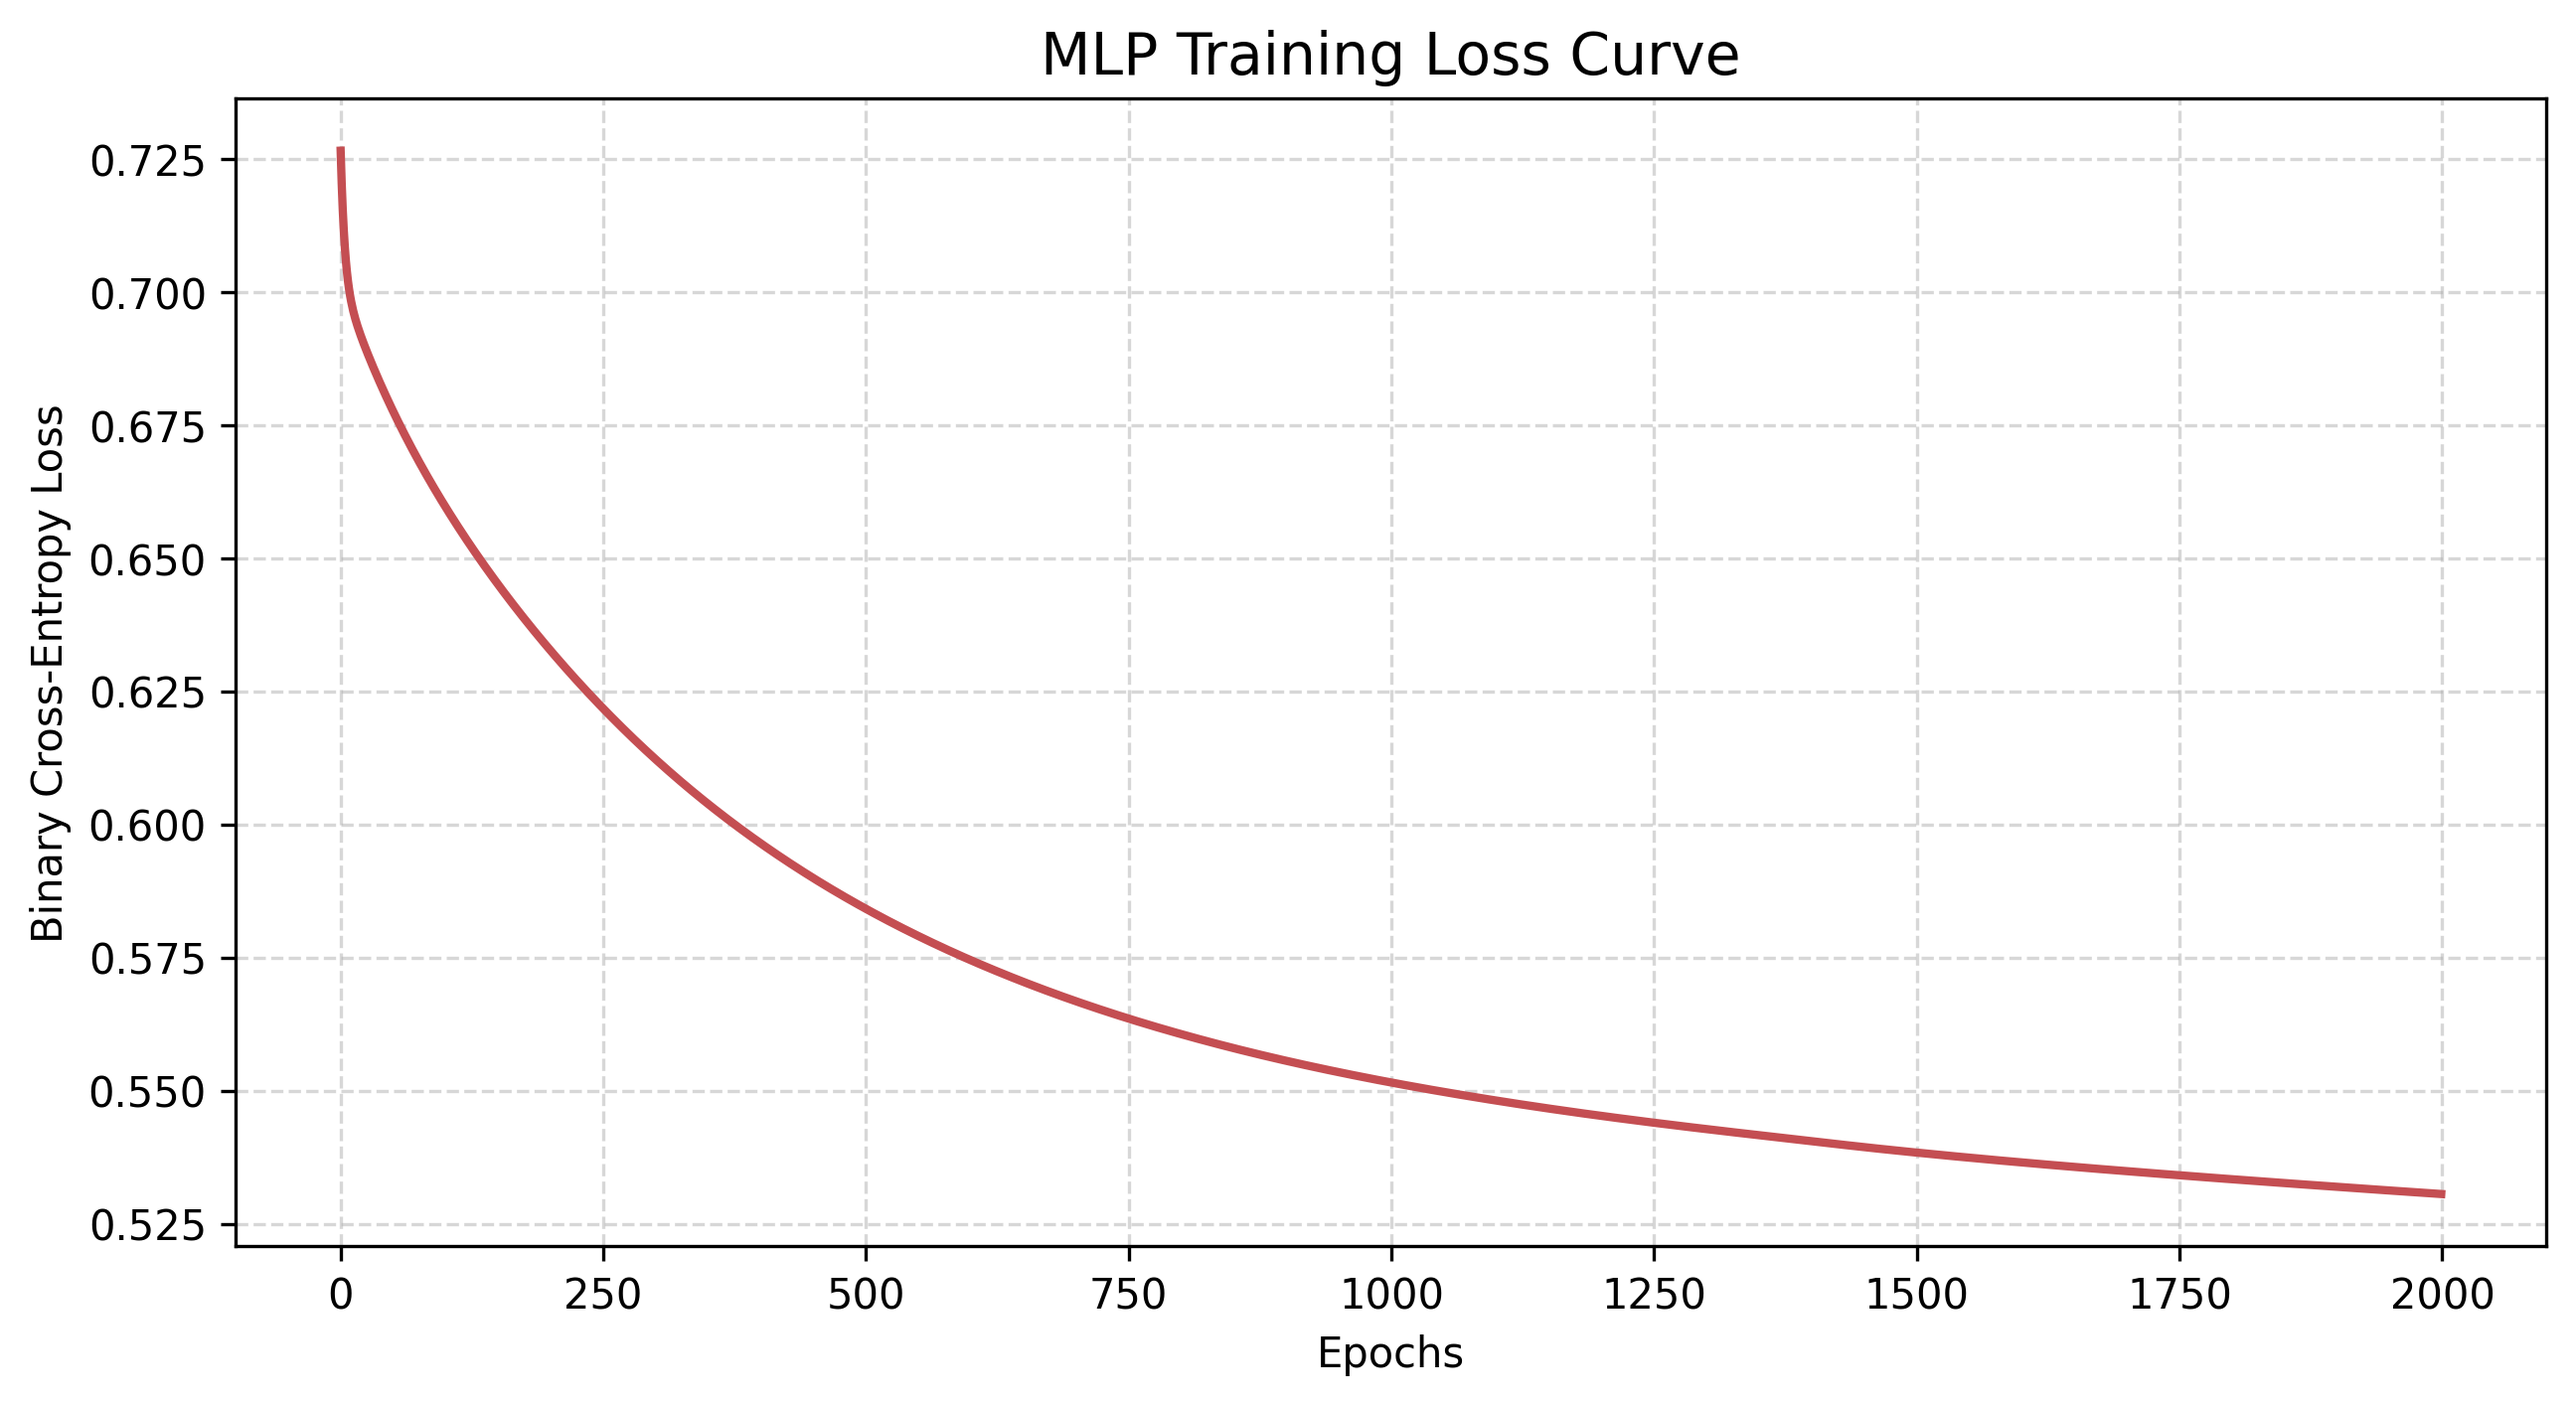
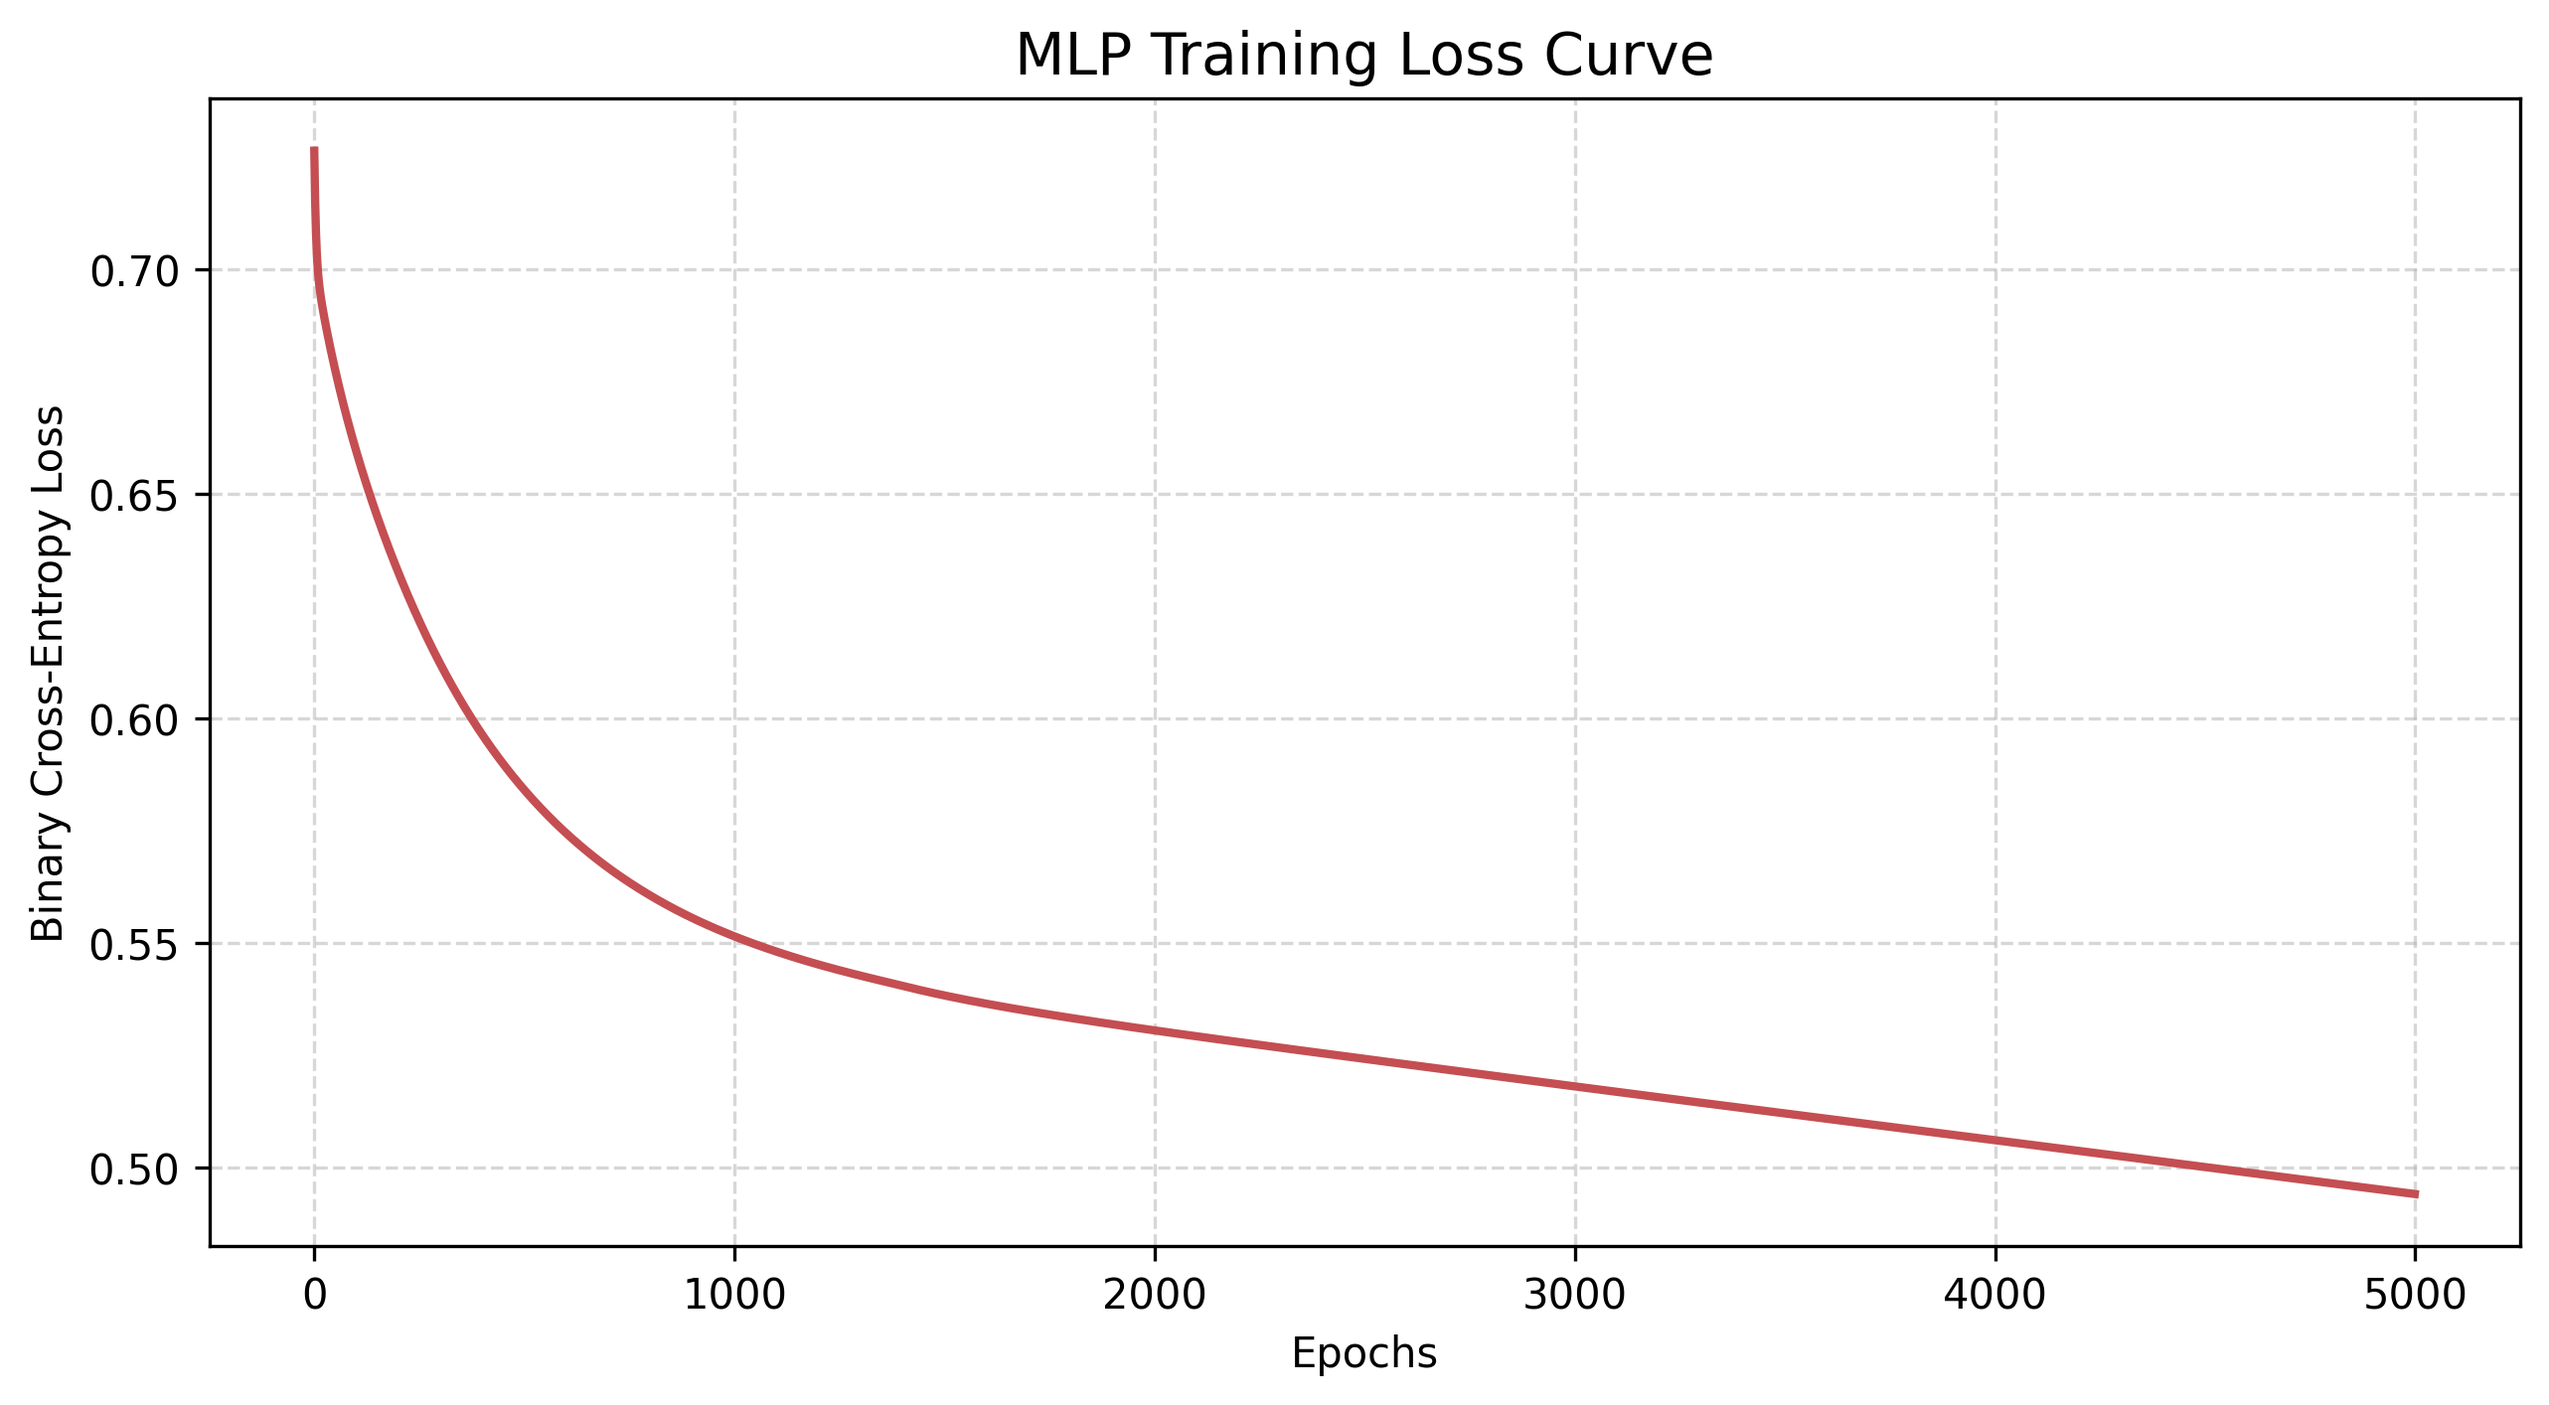
Second submit. Add the training result(models best and the last epoch). The loss curve is still not convergent.

diff --git a/Model.py b/Model.py
@@ -2,6 +2,9 @@
 # 3. 构建模型 (Model Construction - MLP)
 # ==========================================
 import numpy as np
+import pickle # 用于保存模型参数 (Python标准库，符合规定)
+import copy   # 用于复制最佳模型参数
+import os
 
 
 class SimpleMLP:
@@ -15,6 +18,10 @@ class SimpleMLP:
 
         self.W2 = np.random.randn(hidden_size, output_size) * np.sqrt(2. / hidden_size)
         self.b2 = np.zeros((1, output_size))
+
+        # 用于记录最佳参数
+        self.best_weights = None
+        self.best_f1 = -1  # 初始化最佳 F1 分数
 
     def sigmoid(self, z):
         return 1 / (1 + np.exp(-np.clip(z, -250, 250)))  # clip防止溢出
@@ -51,23 +58,108 @@ class SimpleMLP:
         self.W2 -= self.lr * dW2
         self.b2 -= self.lr * db2
 
-    def train(self, X, y, epochs=1000):
-        loss_history = []
+    # 计算精确率的辅助函数
+    def calculate_precision(self, X, y):
+        preds = (self.forward(X) > 0.5).astype(int)
+        y = y.reshape(-1, 1)
+        tp = np.sum((y == 1) & (preds == 1))
+        fp = np.sum((y == 0) & (preds == 1))
+        return tp / (tp + fp + 1e-8)  # 防止除以0
+
+    def calculate_f1(self, X, y):
+        # 简单计算 F1 用于选取最佳模型
+        preds = (self.forward(X) > 0.5).astype(int)
+        tp = np.sum((y == 1) & (preds == 1))
+        fp = np.sum((y == 0) & (preds == 1))
+        fn = np.sum((y == 1) & (preds == 0))
+        prec = tp / (tp + fp + 1e-8)
+        rec = tp / (tp + fn + 1e-8)
+        return 2 * (prec * rec) / (prec + rec + 1e-8)
+
+    def save_model(self, filename):
+        """保存当前权重到文件"""
+        model_params = {
+            'W1': self.W1, 'b1': self.b1,
+            'W2': self.W2, 'b2': self.b2
+        }
+        with open(filename, 'wb') as f:
+            pickle.dump(model_params, f)
+        print(f" -> 模型已保存: {filename}")
+
+    def load_model(self, filename):
+        """加载权重"""
+        with open(filename, 'rb') as f:
+            params = pickle.load(f)
+        self.W1 = params['W1'];
+        self.b1 = params['b1']
+        self.W2 = params['W2'];
+        self.b2 = params['b2']
+
+    def train(self, X_train, y_train, X_val, y_val, epochs=1000):
+        # 历史记录容器
+        history = {
+            'loss': [],
+            'train_precision': [],
+            'val_precision': []
+        }
+
+        print(f"开始训练 ({epochs} Epochs)...")
+
         for epoch in range(epochs):
-            # 1. Forward
-            output = self.forward(X)
+            # 1. Forward & Backward (Train)
+            output = self.forward(X_train)
+            self.backward(X_train, y_train, output)
 
-            # 2. Compute Loss (Binary Cross Entropy)
-            # 加 1e-8 防止 log(0)
-            loss = -np.mean(y * np.log(output + 1e-8) + (1 - y) * np.log(1 - output + 1e-8))
-            loss_history.append(loss)
+            # 2. 记录 Loss
+            loss = -np.mean(y_train * np.log(output + 1e-8) + (1 - y_train) * np.log(1 - output + 1e-8))
+            history['loss'].append(loss)
 
-            # 3. Backward & Update
-            self.backward(X, y, output)
+            # 3. 计算并记录 Precision (Train & Val)
+            train_prec = self.calculate_precision(X_train, y_train)
+            val_prec = self.calculate_precision(X_val, y_val)
 
-            if epoch % 100 == 0:
-                print(f"Epoch {epoch}, Loss: {loss:.4f}")
-        return loss_history
+            history['train_precision'].append(train_prec)
+            history['val_precision'].append(val_prec)
+
+            # 4. 最佳模型检查 (基于验证集 F1 Score)
+            # 我们用 F1 来判断哪个模型最好，因为它综合了 Precision 和 Recall
+            current_val_f1 = self.calculate_f1(X_val, y_val)
+            if current_val_f1 > self.best_f1:
+                self.best_f1 = current_val_f1
+                # 深度复制当前权重作为最佳权重
+                self.best_weights = {
+                    'W1': self.W1.copy(), 'b1': self.b1.copy(),
+                    'W2': self.W2.copy(), 'b2': self.b2.copy()
+                }
+
+            if epoch % 200 == 0:
+                print(f"    Epoch {epoch}: Loss={loss:.4f}, Val Precision={val_prec:.4f}, Best F1={self.best_f1:.4f}")
+
+        # 训练结束后，保存两个模型
+
+        # 1. 保存最后一轮模型 (Final Model)
+        self.save_model("D:/Projects/DTS402/output/model/model_final.pkl")
+
+        # 2. 保存并加载最佳模型 (Best Model)
+        if self.best_weights:
+            # 先暂存当前的 final 权重
+            final_weights = {'W1': self.W1, 'b1': self.b1, 'W2': self.W2, 'b2': self.b2}
+
+            # 加载最佳权重并保存文件
+            self.W1 = self.best_weights['W1'];
+            self.b1 = self.best_weights['b1']
+            self.W2 = self.best_weights['W2'];
+            self.b2 = self.best_weights['b2']
+            self.save_model("D:/Projects/DTS402/output/model/model_best.pkl")
+
+            # 恢复回最后一轮的权重(以便画图反映的是完整的训练过程)
+            # 或者您可以选择就让模型停留在最佳状态，这里我们选择恢复，让用户决定
+            self.W1 = final_weights['W1'];
+            self.b1 = final_weights['b1']
+            self.W2 = final_weights['W2'];
+            self.b2 = final_weights['b2']
+
+        return history
 
     def predict(self, X):
         output = self.forward(X)

diff --git a/Train_and_Evaluation.py b/Train_and_Evaluation.py
@@ -14,7 +14,7 @@ model = SimpleMLP(input_size=input_dim, hidden_size=16, output_size=1, learning_
 
 # 4.2 开始训练
 print("开始训练神经网络...")
-history = model.train(X_train, y_train, epochs=2000)
+history = model.train(X_train, y_train, X_test, y_test, epochs=5000)
 
 # 4.3 预测
 y_pred_train = model.predict(X_train)
@@ -118,7 +118,7 @@ loss_history = []
 plt.figure(figsize=(10, 5))
 
 # 直接使用 history 变量
-plt.plot(range(len(history)), history, color='#c44e52', linewidth=2)
+plt.plot( history['loss'], color='#c44e52', linewidth=2)
 
 plt.title('MLP Training Loss Curve', fontsize=14)
 plt.xlabel('Epochs')
@@ -129,36 +129,56 @@ plt.savefig(r'D:\Projects\DTS402\output\3_loss_curve.png', dpi=300, bbox_inches=
 print("已保存: 3_loss_curve.png")
 plt.show()
 
+# ==============================================================================
+# 【新增】图表 4: 精确率曲线 (Precision Curve)
+# 展示 训练集 vs 验证集 的精确率变化
+# ==============================================================================
+plt.figure(figsize=(10, 5))
+plt.plot(history['train_precision'], color='#4c72b0', linewidth=2, label='Train Precision')
+plt.plot(history['val_precision'], color='#55a868', linewidth=2, linestyle='--', label='Validation Precision')
+
+plt.title('Precision Curve: Train vs Validation', fontsize=14)
+plt.xlabel('Epochs')
+plt.ylabel('Precision Score')
+plt.legend()
+plt.ylim(0, 1.05) # 限制Y轴在 0-1 之间
+plt.grid(True, linestyle='--', alpha=0.5)
+
+# 保存图片
+plt.savefig(r'D:\Projects\DTS402\output\4_precision_curve.png', dpi=300, bbox_inches='tight')
+print("已保存: 4_precision_curve.png")
+plt.show()
+
 
 # ==============================================================================
 # 图表 4: 混淆矩阵 (Confusion Matrix)
-# 对应作业要求: "Evaluation Metrics... predictive accuracy" [cite: 95]
-# 这是一个纯 Matplotlib 手写的混淆矩阵热力图
+# 注意：这里我们加载 "最佳模型" 来绘制混淆矩阵，以展示最好的结果
 # ==============================================================================
-# 1. 计算混淆矩阵数值
+# 加载最佳模型权重
+print("正在加载最佳模型 (model_best.pkl) 进行最终评估...")
+model.load_model("D:/Projects/DTS402/output/model/model_best.pkl")
+
 y_pred_final = model.predict(X_test).flatten()
 y_true_final = y_test.flatten()
 
+# 计算矩阵
 tp = np.sum((y_true_final == 1) & (y_pred_final == 1))
 tn = np.sum((y_true_final == 0) & (y_pred_final == 0))
 fp = np.sum((y_true_final == 0) & (y_pred_final == 1))
 fn = np.sum((y_true_final == 1) & (y_pred_final == 0))
+cm = np.array([[tn, fp], [fn, tp]])
 
-cm = np.array([[tn, fp], [fn, tp]]) # 标准格式: [[TN, FP], [FN, TP]]
-
-# 2. 绘图
+# 绘图
 plt.figure(figsize=(6, 5))
 plt.imshow(cm, interpolation='nearest', cmap=plt.cm.Blues)
-plt.title('Confusion Matrix (Test Set)', fontsize=14)
+plt.title('Confusion Matrix (Best Model)', fontsize=14)
 plt.colorbar()
 
-# 设置标签
 classes = ['Fake (CG)', 'Original (OR)']
 tick_marks = np.arange(len(classes))
 plt.xticks(tick_marks, classes, rotation=0)
 plt.yticks(tick_marks, classes)
 
-# 在格子里填数字
 thresh = cm.max() / 2.
 for i in range(cm.shape[0]):
     for j in range(cm.shape[1]):
@@ -169,6 +189,5 @@ for i in range(cm.shape[0]):
 plt.ylabel('True Label')
 plt.xlabel('Predicted Label')
 plt.tight_layout()
-plt.savefig(r'D:\Projects\DTS402\output\4_confusion_matrix.png', dpi=300, bbox_inches='tight')
-print("已保存: 4_confusion_matrix.png")
+plt.savefig(r'D:\Projects\DTS402\output\5_confusion_matrix_best.png', dpi=300, bbox_inches='tight')
 plt.show()
